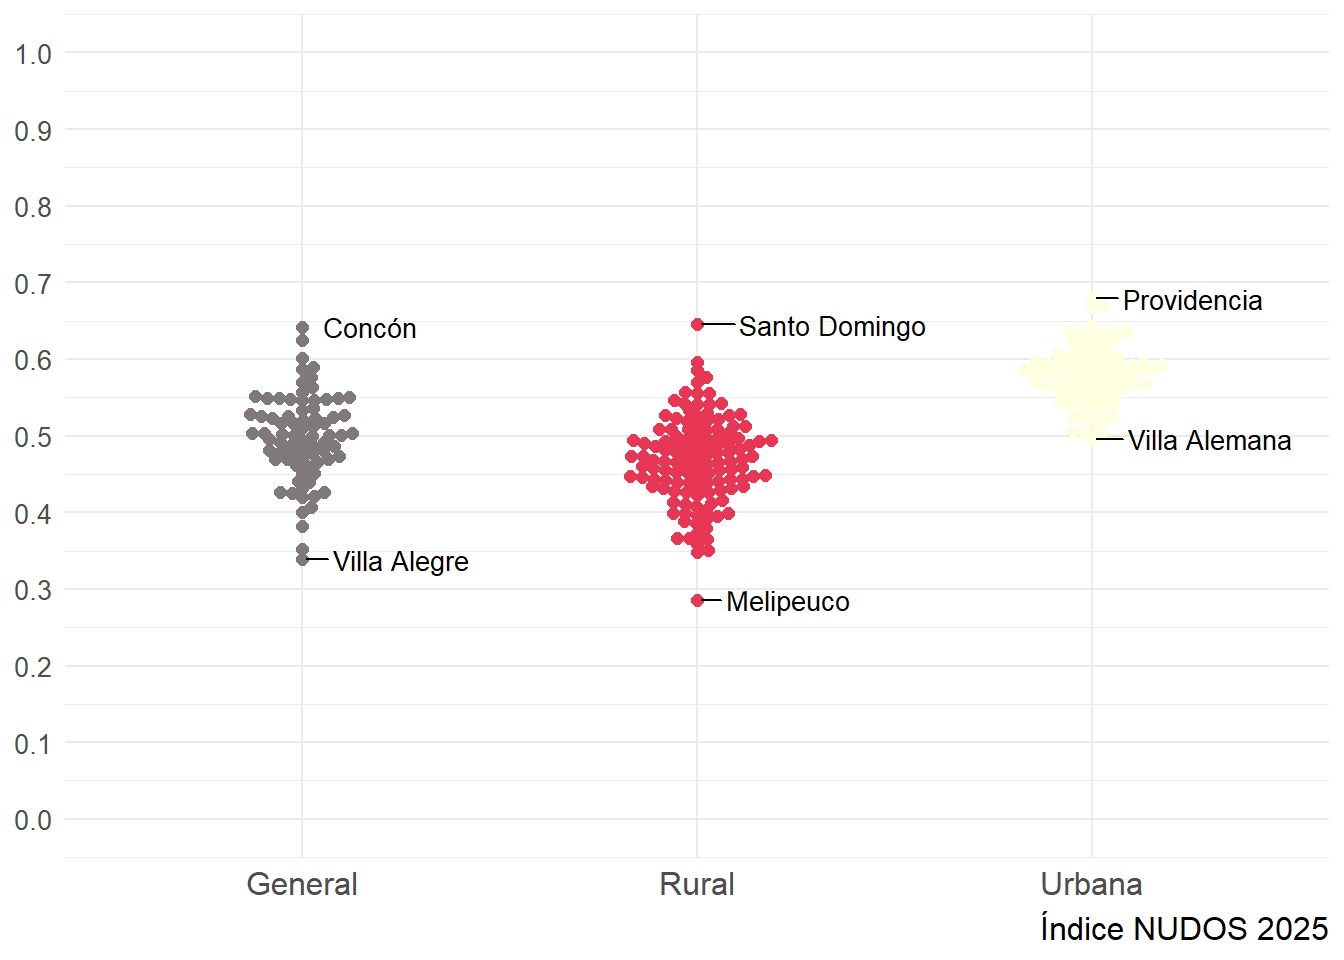
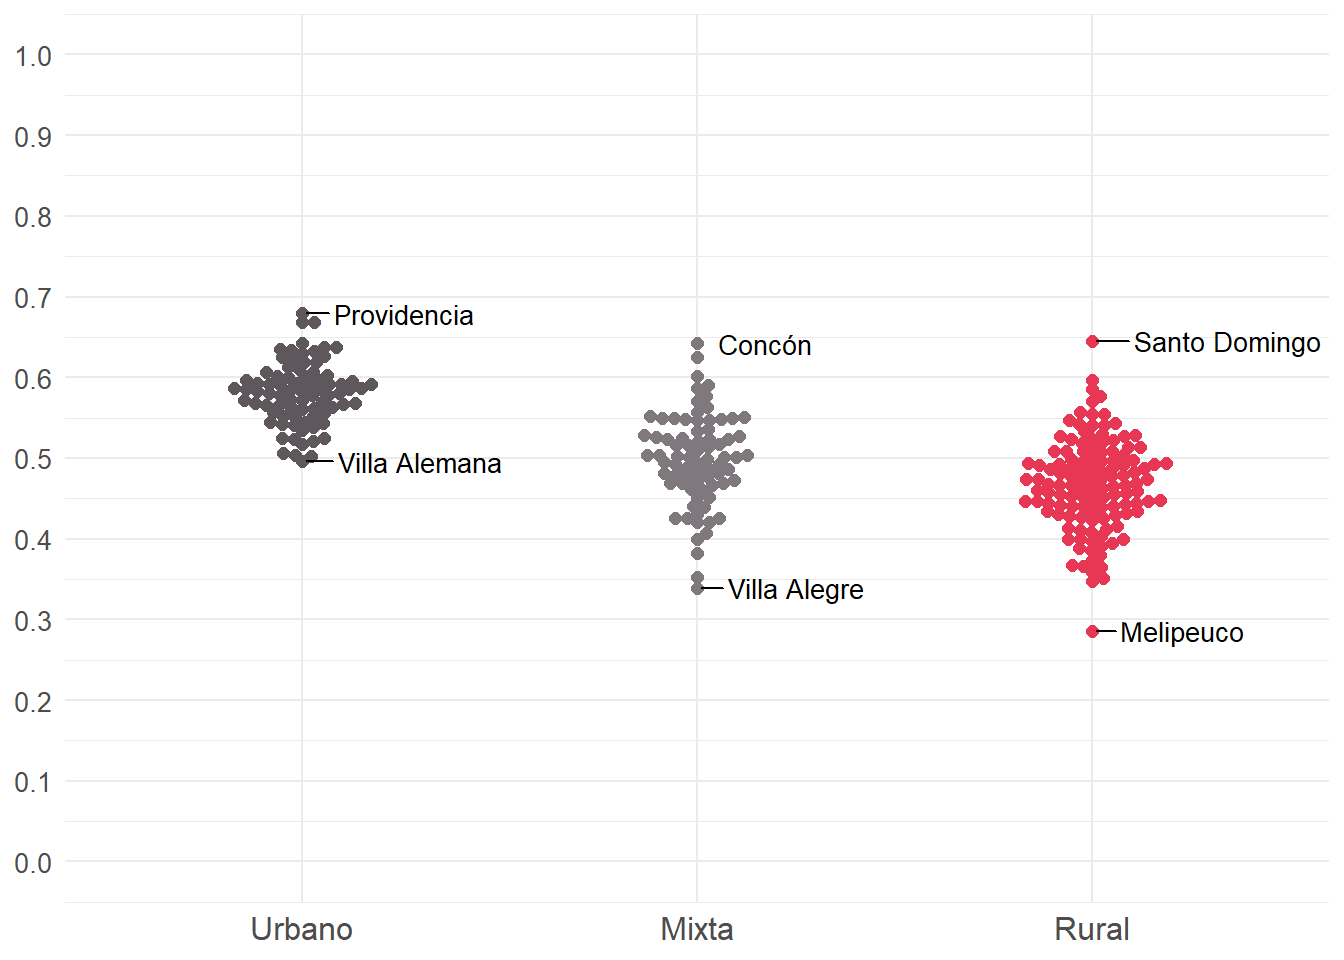
final plots

diff --git a/reports/2025-d-idc-report.html b/reports/2025-d-idc-report.html
@@ -106,7 +106,7 @@ pre > code.sourceCode > span > a:first-child::before { text-decoration: underlin
 <span id="cb1-7"><a href="#cb1-7" aria-hidden="true" tabindex="-1"></a>  ggplot2, ggbeeswarm, ggrepel</span>
 <span id="cb1-8"><a href="#cb1-8" aria-hidden="true" tabindex="-1"></a>  )</span>
 <span id="cb1-9"><a href="#cb1-9" aria-hidden="true" tabindex="-1"></a></span>
-<span id="cb1-10"><a href="#cb1-10" aria-hidden="true" tabindex="-1"></a>paleta_colores <span class="ot">&lt;-</span> <span class="fu">c</span>(<span class="st">"#7F797E"</span>, <span class="st">"#E83755"</span>, <span class="st">"#FDFFDE"</span>)</span>
+<span id="cb1-10"><a href="#cb1-10" aria-hidden="true" tabindex="-1"></a>paleta_colores <span class="ot">&lt;-</span> <span class="fu">c</span>(<span class="st">"#7F797E"</span>, <span class="st">"#E83755"</span>, <span class="st">"#5E585C"</span>)</span>
 <span id="cb1-11"><a href="#cb1-11" aria-hidden="true" tabindex="-1"></a></span>
 <span id="cb1-12"><a href="#cb1-12" aria-hidden="true" tabindex="-1"></a>idc <span class="ot">&lt;-</span> <span class="fu">readRDS</span>(<span class="st">"data/proc_data/public_data/2025_idc_v2.rds"</span>)</span>
 <span id="cb1-13"><a href="#cb1-13" aria-hidden="true" tabindex="-1"></a></span>
@@ -207,32 +207,32 @@ pre > code.sourceCode > span > a:first-child::before { text-decoration: underlin
 <span id="cb5-5"><a href="#cb5-5" aria-hidden="true" tabindex="-1"></a></span>
 <span id="cb5-6"><a href="#cb5-6" aria-hidden="true" tabindex="-1"></a><span class="co"># Comunas a etiquetar: las 3 con menor y 3 con mayor IDC_2025 por tipo_comuna + CHL (ejemplo adaptado)</span></span>
 <span id="cb5-7"><a href="#cb5-7" aria-hidden="true" tabindex="-1"></a>beeswarm_labels <span class="ot">&lt;-</span> beeswarm_plot <span class="sc">%&gt;%</span></span>
-<span id="cb5-8"><a href="#cb5-8" aria-hidden="true" tabindex="-1"></a>    <span class="fu">group_by</span>(tipo_comuna) <span class="sc">%&gt;%</span></span>
-<span id="cb5-9"><a href="#cb5-9" aria-hidden="true" tabindex="-1"></a>    <span class="fu">arrange</span>(idc_2025) <span class="sc">%&gt;%</span></span>
-<span id="cb5-10"><a href="#cb5-10" aria-hidden="true" tabindex="-1"></a>    <span class="fu">slice</span>(<span class="fu">c</span>(<span class="dv">1</span>, (<span class="fu">n</span>())<span class="sc">:</span><span class="fu">n</span>())) <span class="sc">%&gt;%</span></span>
-<span id="cb5-11"><a href="#cb5-11" aria-hidden="true" tabindex="-1"></a>    <span class="fu">ungroup</span>()</span>
-<span id="cb5-12"><a href="#cb5-12" aria-hidden="true" tabindex="-1"></a></span>
-<span id="cb5-13"><a href="#cb5-13" aria-hidden="true" tabindex="-1"></a><span class="co"># Graficar</span></span>
-<span id="cb5-14"><a href="#cb5-14" aria-hidden="true" tabindex="-1"></a><span class="fu">ggplot</span>(beeswarm_plot, <span class="fu">aes</span>(<span class="at">y =</span> idc_2025, <span class="at">x =</span> tipo_comuna, <span class="at">color =</span> tipo_comuna)) <span class="sc">+</span></span>
-<span id="cb5-15"><a href="#cb5-15" aria-hidden="true" tabindex="-1"></a>  <span class="fu">geom_beeswarm</span>(<span class="at">size =</span> <span class="dv">2</span>) <span class="sc">+</span></span>
-<span id="cb5-16"><a href="#cb5-16" aria-hidden="true" tabindex="-1"></a>  <span class="fu">geom_text_repel</span>(</span>
-<span id="cb5-17"><a href="#cb5-17" aria-hidden="true" tabindex="-1"></a>    <span class="at">data =</span> beeswarm_labels,</span>
-<span id="cb5-18"><a href="#cb5-18" aria-hidden="true" tabindex="-1"></a>    <span class="fu">aes</span>(<span class="at">label =</span> comuna), <span class="co"># Etiquetas = nombre comuna</span></span>
-<span id="cb5-19"><a href="#cb5-19" aria-hidden="true" tabindex="-1"></a>    <span class="at">hjust =</span> <span class="sc">-</span><span class="fl">0.2</span>, <span class="at">vjust =</span> <span class="fl">0.5</span>, <span class="at">size =</span> <span class="fl">3.5</span>, <span class="at">color =</span> <span class="st">"black"</span></span>
-<span id="cb5-20"><a href="#cb5-20" aria-hidden="true" tabindex="-1"></a>  ) <span class="sc">+</span></span>
-<span id="cb5-21"><a href="#cb5-21" aria-hidden="true" tabindex="-1"></a>  <span class="fu">scale_color_manual</span>(<span class="at">values =</span> paleta_colores) <span class="sc">+</span></span>
-<span id="cb5-22"><a href="#cb5-22" aria-hidden="true" tabindex="-1"></a>  <span class="fu">theme_minimal</span>() <span class="sc">+</span></span>
-<span id="cb5-23"><a href="#cb5-23" aria-hidden="true" tabindex="-1"></a>  <span class="fu">theme</span>(</span>
-<span id="cb5-24"><a href="#cb5-24" aria-hidden="true" tabindex="-1"></a>    <span class="at">legend.title =</span> <span class="fu">element_blank</span>(),</span>
-<span id="cb5-25"><a href="#cb5-25" aria-hidden="true" tabindex="-1"></a>    <span class="at">axis.title.y =</span> <span class="fu">element_blank</span>(),</span>
-<span id="cb5-26"><a href="#cb5-26" aria-hidden="true" tabindex="-1"></a>    <span class="at">axis.title.x =</span> <span class="fu">element_blank</span>(),</span>
-<span id="cb5-27"><a href="#cb5-27" aria-hidden="true" tabindex="-1"></a>    <span class="at">axis.text.x =</span> <span class="fu">element_text</span>(<span class="at">size =</span> <span class="dv">12</span>),</span>
-<span id="cb5-28"><a href="#cb5-28" aria-hidden="true" tabindex="-1"></a>    <span class="at">axis.text.y =</span> <span class="fu">element_text</span>(<span class="at">size =</span> <span class="dv">10</span>),</span>
-<span id="cb5-29"><a href="#cb5-29" aria-hidden="true" tabindex="-1"></a>    <span class="at">legend.position =</span> <span class="st">"none"</span>,</span>
-<span id="cb5-30"><a href="#cb5-30" aria-hidden="true" tabindex="-1"></a>    <span class="at">plot.caption =</span> <span class="fu">element_text</span>(<span class="at">size =</span> <span class="dv">12</span>)</span>
-<span id="cb5-31"><a href="#cb5-31" aria-hidden="true" tabindex="-1"></a>  ) <span class="sc">+</span></span>
-<span id="cb5-32"><a href="#cb5-32" aria-hidden="true" tabindex="-1"></a>  <span class="fu">scale_x_discrete</span>(<span class="at">labels =</span> <span class="fu">c</span>(<span class="st">"General"</span>, <span class="st">"Rural"</span>, <span class="st">"Urbana"</span>)) <span class="sc">+</span> <span class="co"># adapta según tus categorías</span></span>
-<span id="cb5-33"><a href="#cb5-33" aria-hidden="true" tabindex="-1"></a>  <span class="fu">labs</span>(<span class="at">caption =</span> <span class="st">"Índice NUDOS 2025"</span>) <span class="sc">+</span></span>
+<span id="cb5-8"><a href="#cb5-8" aria-hidden="true" tabindex="-1"></a>    <span class="fu">mutate</span>(<span class="at">tipo_comuna =</span> <span class="fu">factor</span>(tipo_comuna, <span class="at">levels =</span> <span class="fu">c</span>(<span class="st">"Urbano"</span>, <span class="st">"Mixto"</span>, <span class="st">"Rural"</span>)))<span class="sc">%&gt;%</span></span>
+<span id="cb5-9"><a href="#cb5-9" aria-hidden="true" tabindex="-1"></a>    <span class="fu">group_by</span>(tipo_comuna) <span class="sc">%&gt;%</span></span>
+<span id="cb5-10"><a href="#cb5-10" aria-hidden="true" tabindex="-1"></a>    <span class="fu">arrange</span>(idc_2025) <span class="sc">%&gt;%</span></span>
+<span id="cb5-11"><a href="#cb5-11" aria-hidden="true" tabindex="-1"></a>    <span class="fu">slice</span>(<span class="fu">c</span>(<span class="dv">1</span>, (<span class="fu">n</span>())<span class="sc">:</span><span class="fu">n</span>())) <span class="sc">%&gt;%</span></span>
+<span id="cb5-12"><a href="#cb5-12" aria-hidden="true" tabindex="-1"></a>    <span class="fu">ungroup</span>()</span>
+<span id="cb5-13"><a href="#cb5-13" aria-hidden="true" tabindex="-1"></a></span>
+<span id="cb5-14"><a href="#cb5-14" aria-hidden="true" tabindex="-1"></a><span class="co"># Graficar</span></span>
+<span id="cb5-15"><a href="#cb5-15" aria-hidden="true" tabindex="-1"></a><span class="fu">ggplot</span>(beeswarm_plot, <span class="fu">aes</span>(<span class="at">y =</span> idc_2025, <span class="at">x =</span> tipo_comuna, <span class="at">color =</span> tipo_comuna)) <span class="sc">+</span></span>
+<span id="cb5-16"><a href="#cb5-16" aria-hidden="true" tabindex="-1"></a>  <span class="fu">geom_beeswarm</span>(<span class="at">size =</span> <span class="dv">2</span>) <span class="sc">+</span></span>
+<span id="cb5-17"><a href="#cb5-17" aria-hidden="true" tabindex="-1"></a>  <span class="fu">geom_text_repel</span>(</span>
+<span id="cb5-18"><a href="#cb5-18" aria-hidden="true" tabindex="-1"></a>    <span class="at">data =</span> beeswarm_labels,</span>
+<span id="cb5-19"><a href="#cb5-19" aria-hidden="true" tabindex="-1"></a>    <span class="fu">aes</span>(<span class="at">label =</span> comuna), <span class="co"># Etiquetas = nombre comuna</span></span>
+<span id="cb5-20"><a href="#cb5-20" aria-hidden="true" tabindex="-1"></a>    <span class="at">hjust =</span> <span class="sc">-</span><span class="fl">0.2</span>, <span class="at">vjust =</span> <span class="fl">0.5</span>, <span class="at">size =</span> <span class="fl">3.5</span>, <span class="at">color =</span> <span class="st">"black"</span></span>
+<span id="cb5-21"><a href="#cb5-21" aria-hidden="true" tabindex="-1"></a>  ) <span class="sc">+</span></span>
+<span id="cb5-22"><a href="#cb5-22" aria-hidden="true" tabindex="-1"></a>  <span class="fu">scale_color_manual</span>(<span class="at">values =</span> paleta_colores) <span class="sc">+</span></span>
+<span id="cb5-23"><a href="#cb5-23" aria-hidden="true" tabindex="-1"></a>  <span class="fu">theme_minimal</span>() <span class="sc">+</span></span>
+<span id="cb5-24"><a href="#cb5-24" aria-hidden="true" tabindex="-1"></a>  <span class="fu">theme</span>(</span>
+<span id="cb5-25"><a href="#cb5-25" aria-hidden="true" tabindex="-1"></a>    <span class="at">legend.title =</span> <span class="fu">element_blank</span>(),</span>
+<span id="cb5-26"><a href="#cb5-26" aria-hidden="true" tabindex="-1"></a>    <span class="at">axis.title.y =</span> <span class="fu">element_blank</span>(),</span>
+<span id="cb5-27"><a href="#cb5-27" aria-hidden="true" tabindex="-1"></a>    <span class="at">axis.title.x =</span> <span class="fu">element_blank</span>(),</span>
+<span id="cb5-28"><a href="#cb5-28" aria-hidden="true" tabindex="-1"></a>    <span class="at">axis.text.x =</span> <span class="fu">element_text</span>(<span class="at">size =</span> <span class="dv">12</span>),</span>
+<span id="cb5-29"><a href="#cb5-29" aria-hidden="true" tabindex="-1"></a>    <span class="at">axis.text.y =</span> <span class="fu">element_text</span>(<span class="at">size =</span> <span class="dv">10</span>),</span>
+<span id="cb5-30"><a href="#cb5-30" aria-hidden="true" tabindex="-1"></a>    <span class="at">legend.position =</span> <span class="st">"none"</span>,</span>
+<span id="cb5-31"><a href="#cb5-31" aria-hidden="true" tabindex="-1"></a>    <span class="at">plot.caption =</span> <span class="fu">element_text</span>(<span class="at">size =</span> <span class="dv">12</span>)</span>
+<span id="cb5-32"><a href="#cb5-32" aria-hidden="true" tabindex="-1"></a>  ) <span class="sc">+</span></span>
+<span id="cb5-33"><a href="#cb5-33" aria-hidden="true" tabindex="-1"></a>  <span class="fu">scale_x_discrete</span>(<span class="at">labels =</span> <span class="fu">c</span>(<span class="st">"Urbano"</span>, <span class="st">"Mixta"</span>, <span class="st">"Rural"</span>)) <span class="sc">+</span> <span class="co"># adapta según tus categorías</span></span>
 <span id="cb5-34"><a href="#cb5-34" aria-hidden="true" tabindex="-1"></a>  <span class="fu">scale_y_continuous</span>(<span class="at">breaks =</span> <span class="fu">seq</span>(<span class="dv">0</span>, <span class="dv">1</span>, <span class="fl">0.1</span>), <span class="at">limits =</span> <span class="fu">c</span>(<span class="dv">0</span>, <span class="dv">1</span>))</span></code><button title="Copy to Clipboard" class="code-copy-button"><i class="bi"></i></button></pre></div>
 <div class="cell-output-display">
 <div>
@@ -353,9 +353,7 @@ pre > code.sourceCode > span > a:first-child::before { text-decoration: underlin
 <span id="cb8-49"><a href="#cb8-49" aria-hidden="true" tabindex="-1"></a>    <span class="at">axis.text.y =</span> <span class="fu">element_text</span>(<span class="at">size =</span> <span class="dv">10</span>),</span>
 <span id="cb8-50"><a href="#cb8-50" aria-hidden="true" tabindex="-1"></a>    <span class="at">axis.text.x =</span> <span class="fu">element_text</span>(<span class="at">size =</span> <span class="dv">10</span>)</span>
 <span id="cb8-51"><a href="#cb8-51" aria-hidden="true" tabindex="-1"></a>  ) <span class="sc">+</span></span>
-<span id="cb8-52"><a href="#cb8-52" aria-hidden="true" tabindex="-1"></a>  <span class="fu">labs</span>(<span class="at">title =</span> <span class="st">"Índice de Digitalización Comunal (IDC)"</span>,</span>
-<span id="cb8-53"><a href="#cb8-53" aria-hidden="true" tabindex="-1"></a>       <span class="at">subtitle =</span> <span class="st">"Promedios 2024 vs 2025 por región (Norte arriba → Sur abajo)"</span>,</span>
-<span id="cb8-54"><a href="#cb8-54" aria-hidden="true" tabindex="-1"></a>       <span class="at">caption =</span> <span class="st">"Fuente: Elaboración propia"</span>)</span></code><button title="Copy to Clipboard" class="code-copy-button"><i class="bi"></i></button></pre></div>
+<span id="cb8-52"><a href="#cb8-52" aria-hidden="true" tabindex="-1"></a>  <span class="fu">scale_y_discrete</span>(<span class="at">labels =</span> <span class="cf">function</span>(x) <span class="fu">str_wrap</span>(x, <span class="at">width =</span> <span class="dv">20</span>))</span></code><button title="Copy to Clipboard" class="code-copy-button"><i class="bi"></i></button></pre></div>
 <div class="cell-output-display">
 <div>
 <figure class="figure">
